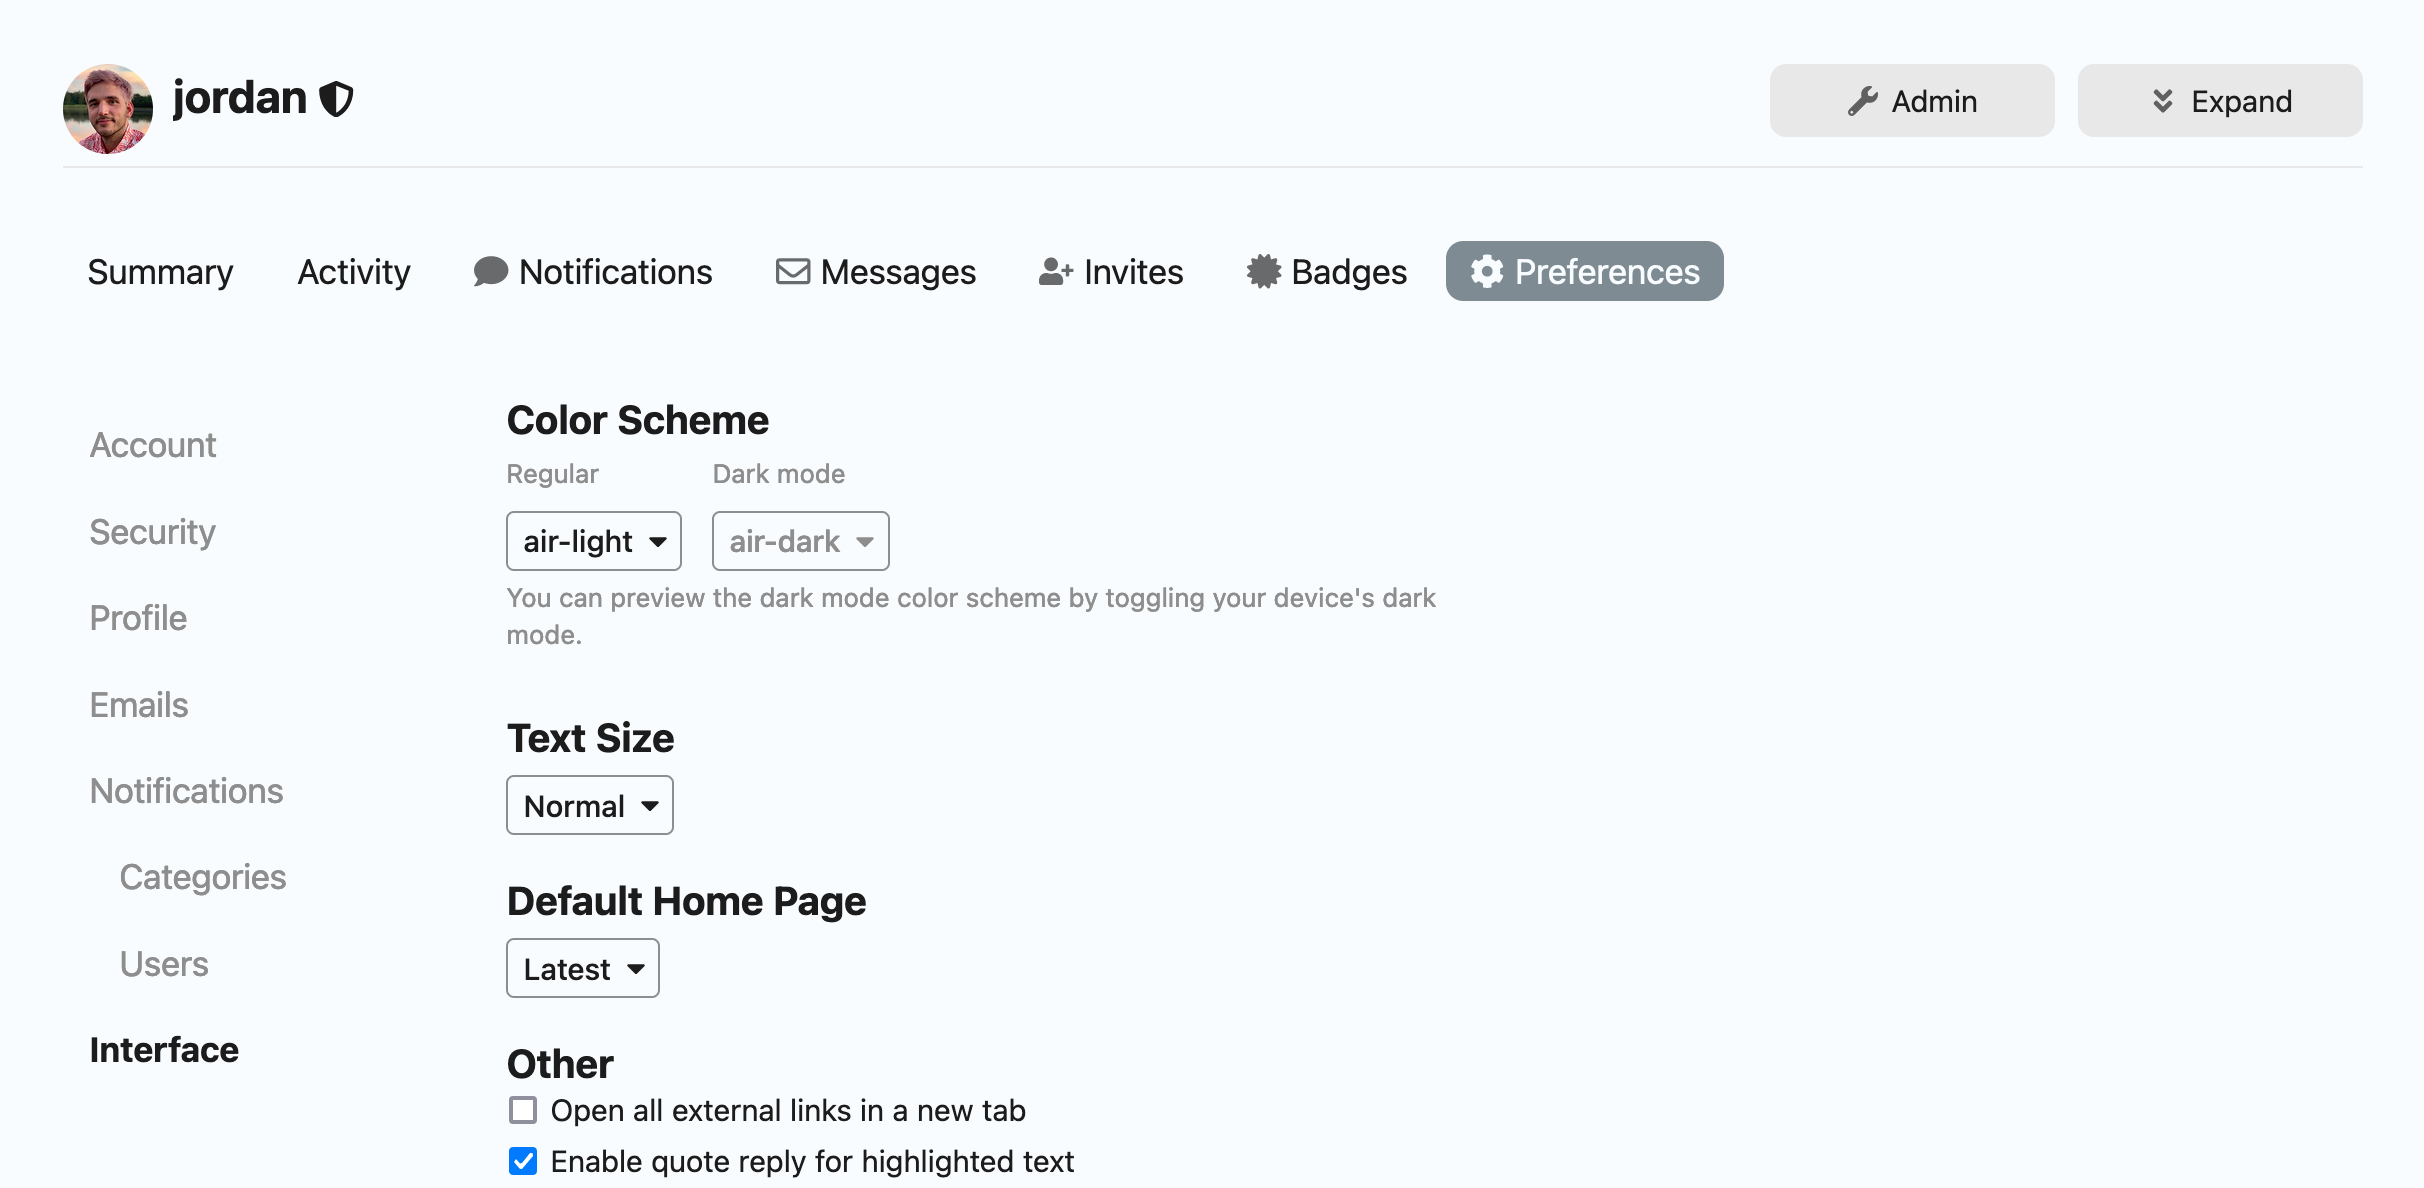
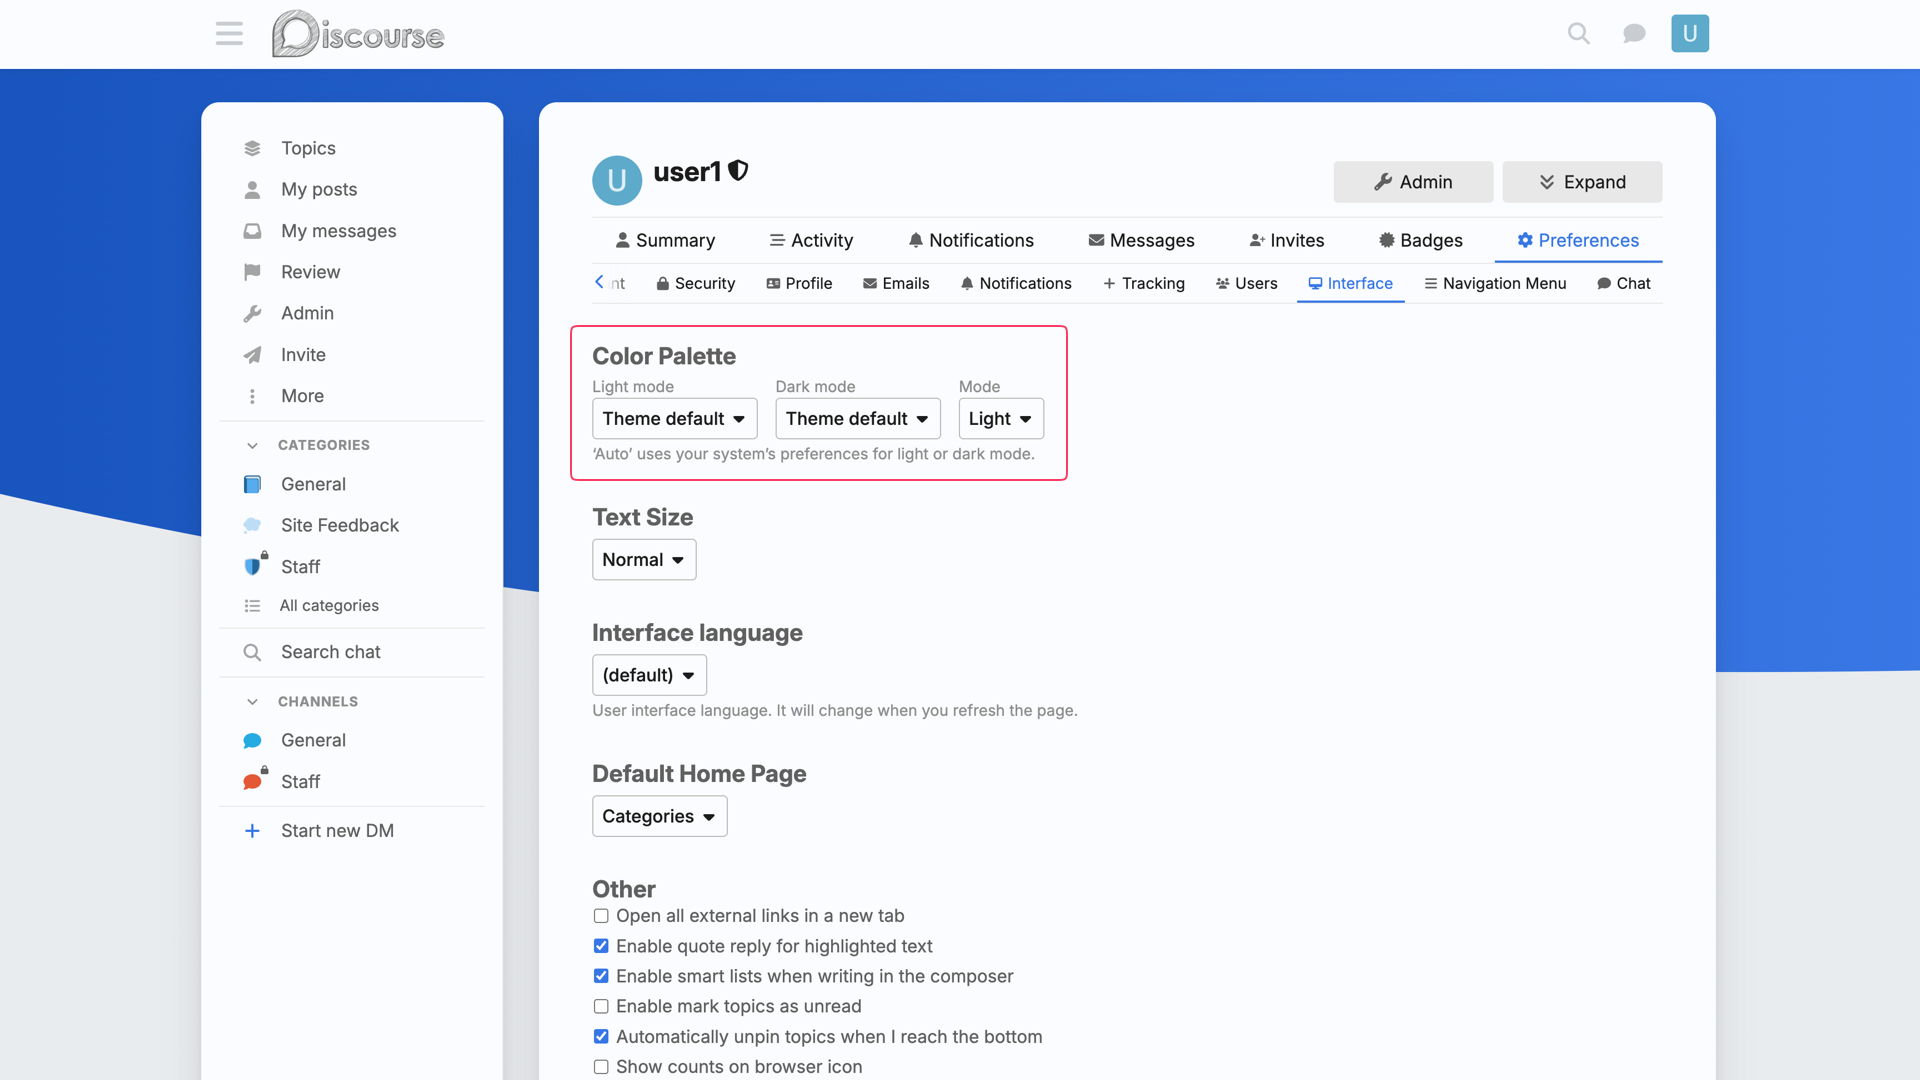
dev: updates images, README.md; adds .webp types

diff --git a/README.md b/README.md
@@ -1,47 +1,53 @@
-A clean & modern theme with a handful of theme-components included to enhance your forum!
+A clean & modern theme with a couple of theme components included to enhance your forum!
 
 **Light Mode**
 
-![light mode](screenshots/light.png)
+![light mode](screenshots/light.webp)
 
 **Dark Mode**
 
-![dark mode](screenshots/dark.png)
+![dark mode](screenshots/dark.webp)
 
 **Categories Page**
 
-![categories page](images/categories-page.png)
+![categories page](images/categories-page.webp)
 
-This theme includes a handful of components to enhance your forum as well:
+This theme includes a couple of theme components to enhance your forum, as well:
 
-* [Clickable Topics](https://meta.discourse.org/t/clickable-topic/183339)
-* [Modern Category + Group Boxes](https://github.com/discourse/discourse-minimal-category-boxes)
-
-> :exclamation: Please read through these tips upon installation, as there are a couple of settings that **NEED TO BE ENABLED** for this to theme to render properly.
+- [Clickable Topics](https://meta.discourse.org/t/clickable-topic/183339)
+- [Modern Category + Group Boxes](https://github.com/discourse/discourse-minimal-category-boxes)
 
 ---
 
-# Tips
+## Theme configuration
+
+> :exclamation: Please follow theme configuration tips upon installation, as there are a couple of settings that **NEED TO BE ENABLED** for this to theme to render properly.
 
 ### Dark Light Scheme Toggle
 
-![toggle dark light schemes](images/toggle-dark-light-schemes.png)
+![toggle dark light schemes](images/toggle-dark-light-schemes.webp)
 
-For this to work properly, at least 2 color scheme choices need to be enabled on the **Color palettes** admin page (`/admin/customize/colors`). At least two colors need to have `color scheme can be selected by users` enabled.
+The mode toggle will be shown at the bottom of sidebar, once at least 2 color scheme choices are enabled on the **Color palettes** admin page (`/admin/customize/colors`). At least two colors need to have `color scheme can be selected by users` enabled.
 
-![color palettes](images/color-palettes.png)
+![color palettes](images/color-palettes.webp)
 
 Once this is done, users should be able to choose between two color schemes as their `light` and `dark` preferences in their user preferences interface menu.
 
-![user interface preferences](images/user-interface-preferences.png)
+![user interface preferences](images/user-interface-preferences.webp)
 
----
+### Edit Theme
+
+Go to **Admin > Themes & components** (`/admin/config/customize/themes`) page to edit Air theme.
+
+- in **Dark color palette** dropdown select `sublime-dark`
+
+  ![theme dark color palette](/images/theme-dark-color-palette.webp)
 
 ## Welcome Banner
 
 On the **Welcome banner** admin page (`/admin/config/welcome-banner`), set **Location** to **Below site header** to ensure the theme renders correctly.
 
-![welcome banner location setting](images/welcome-banner-location-setting.png)
+![welcome banner location setting](images/welcome-banner-location-setting.webp)
 
 ---
 
@@ -49,7 +55,7 @@ On the **Welcome banner** admin page (`/admin/config/welcome-banner`), set **Loc
 
 This theme component requires your categories to use the **Boxes with Subcategories** setting in your `/admin/site_settings/category/all_results?filter=categories` area.
 
-![desktop category page style](images/desktop-category-page-style.png)
+![desktop category page style](images/desktop-category-page-style.webp)
 
 This theme component also allows the forum admin to organize their category page with header titles, and choose which categories appear under each header. To keep things simple, up to 5 headings are allowed to be used. **If no categories + heading settings are chosen, all categories will render as they do above, this is the default rendering option.**
 
